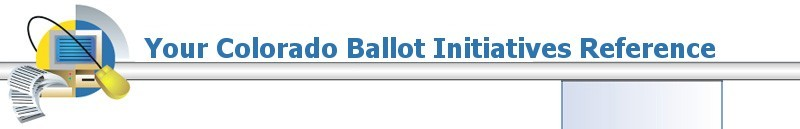
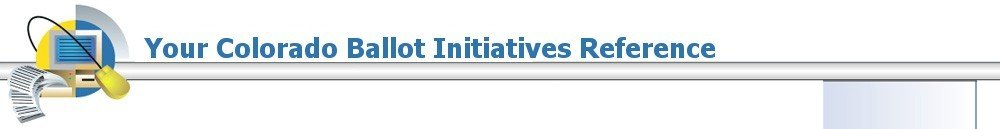
updated 2018 items

Changed region(s): [[0.0, 0.031, 0.9062, 0.9612], [0.6875, 0.6202, 0.9062, 1.0], [0.9062, 0.6202, 1.0, 0.6512]]

diff --git a/index.htm b/index.htm
@@ -13,15 +13,16 @@
 <!-- InstanceEndEditable -->
 </head>
 <body>
-<table width="800" align="center" cellspacing='0' cellpadding='0' class='pageMainTable'>
+<table width="1000px" align="center" cellspacing='0' cellpadding='0' class='pageMainTable'>
   <tr>
     <td colspan="5"><a href="index.htm"><img src="images/header.jpg" alt="The 2012 Colorado Ballot Amendments" border="0" /></a></td>
   </tr>
   <tr>
     <td width='23px'>&nbsp;</td>
-    <td width="175px" class="tdLeftParentCol" align="center" valign="top"><table width="100%" border="0" cellspacing="0" cellpadding="0">
+    <td width="175px" class="tdLeftParentCol" align="center" valign="top">
+	  <table width="100%" border="0" cellspacing="0" cellpadding="0">
         <tr>
-          <td align="left" valign="top" class="tdLeftCol"><img src="images/sidebar01_top.gif" width="175" height="23"/><!-- InstanceBeginEditable name="leftColumn" -->
+          <td align="left" valign="top" class="tdLeftCol"><img src="images/sidebar01_top.gif" width="100%" height="23"/><!-- InstanceBeginEditable name="leftColumn" -->
             <h1 class="headLeftCol">Amendments</h1>
             <p class="textLeftCol"><a href="https://ballotpedia.org/Colorado_Amendment_V,_Reduced_Age_Qualification_for_General_Assembly_Members_Amendment_(2018)">Amendment V</a></p>
             <p class="textLeftCol"><a href="https://ballotpedia.org/Colorado_Amendment_W,_Judge_Retention_Ballot_Language_Amendment_(2018)">Amendment W</a></p>
@@ -44,7 +45,7 @@
 <script>!function(d,s,id){var js,fjs=d.getElementsByTagName(s)[0],p=/^http:/.test(d.location)?'http':'https';if(!d.getElementById(id)){js=d.createElement(s);js.id=id;js.src=p+'://platform.twitter.com/widgets.js';fjs.parentNode.insertBefore(js,fjs);}}(document, 'script', 'twitter-wjs');</script>
 </p>
     <iframe frameborder='0' scrolling='no' marginheight='0' marginwidth='0' height='60' width='120' src='http://widget.quantcast.com/coloradoballot.net/6'></iframe></td>
-    <td width="323px" align="left" valign="top" class="tdCenterCol"><!-- InstanceBeginEditable name="main column" -->
+    <td width="617px" align="left" valign="top" class="tdCenterCol"><!-- InstanceBeginEditable name="main column" -->
       <h1>An Independent Evaluation</h1>
       <p class="textMain">I am a small business owner (software company) and I have tried to carefully and   dispassionately evaluate these initiatives. I am not part of any   group proposing or opposing any initiatives.</p>
       <h1>Letters, Numbers, &amp; Propositions</h1>
@@ -107,7 +108,7 @@
       <h1>Proposition 112</h1>
       <p class="textMain">It seems to be a rule that ever election we have one initiative that provides major benefit to the Oil &amp; Gas companies (Amendment 74 this year) and one that they fight with everything they have (<a href="2018/Colorado Proposition 112.html">prop 112 this year</a>).</p>
       <p class="textMain">This significantly increases the setback of drilling from homes, schools, businesses, etc. And hey, I'm all in favor of their not being able to drill next door to me.</p>
-      <p class="textMain">But the new setbacks will make it close to impossible to drill anywhere with a moderate level of building density. Which some of us think would be great.</p>
+      <p class="textMain">But the new setbacks will make it close to impossible to drill anywhere with a moderate level of building density.</p>
       <p class="textMain">If you want to pretty much stop drilling exceot for very sparse rural areas, vote yes.</p>
       <p class="textMain">If you want drilling to continue in areas with a fair amount of housing, vote no. </p>
       <div id="fb-root"></div>
@@ -150,7 +151,7 @@
       <p class="textRightCol"><a href="https://www.thedenverchannel.com/">KMGH (ABC) </a></p>
       <p class="textRightCol"><a href="https://www.9news.com">KUSA (NBC) </a></p>
       </td>
-    <td width='77px'>&nbsp;</td>
+    <td width='23px'>&nbsp;</td>
   </tr>
 </table>
 <!-- Start Quantcast tag -->

diff --git a/2012/index.htm b/2012/index.htm
@@ -13,15 +13,16 @@
 <!-- InstanceEndEditable -->
 </head>
 <body>
-<table width="800" align="center" cellspacing='0' cellpadding='0' class='pageMainTable'>
+<table width="1000px" align="center" cellspacing='0' cellpadding='0' class='pageMainTable'>
   <tr>
     <td colspan="5"><a href="../index.htm"><img src="../images/header.jpg" alt="The 2012 Colorado Ballot Amendments" border="0" /></a></td>
   </tr>
   <tr>
     <td width='23px'>&nbsp;</td>
-    <td width="175px" class="tdLeftParentCol" align="center" valign="top"><table width="100%" border="0" cellspacing="0" cellpadding="0">
+    <td width="175px" class="tdLeftParentCol" align="center" valign="top">
+		<table width="100%" border="0" cellspacing="0" cellpadding="0">
         <tr>
-          <td align="left" valign="top" class="tdLeftCol"><img src="../images/sidebar01_top.gif" width="175" height="23"/><!-- InstanceBeginEditable name="leftColumn" -->
+          <td align="left" valign="top" class="tdLeftCol"><img src="../images/sidebar01_top.gif" width="100%" height="23"/><!-- InstanceBeginEditable name="leftColumn" -->
             <h1 class="headLeftCol">Amendments</h1>
             <p class="textLeftCol"><a href="http://www.leg.state.co.us/LCS/Initiative Referendum/1112initrefr.nsf/c63bddd6b9678de787257799006bd391/8b49cb9a3a922b19872579fe00634a4d/$FILE/Amendment S merged file.pdf">Amendment S</a></p>
             <p class="textLeftCol"><a href="http://www.regulatemarijuana.org/">Amendment 64</a></p>
@@ -38,7 +39,7 @@
 <script>!function(d,s,id){var js,fjs=d.getElementsByTagName(s)[0],p=/^http:/.test(d.location)?'http':'https';if(!d.getElementById(id)){js=d.createElement(s);js.id=id;js.src=p+'://platform.twitter.com/widgets.js';fjs.parentNode.insertBefore(js,fjs);}}(document, 'script', 'twitter-wjs');</script>
 </p>
     <iframe frameborder='0' scrolling='no' marginheight='0' marginwidth='0' height='60' width='120' src='http://widget.quantcast.com/coloradoballot.net/6'></iframe></td>
-    <td width="323px" align="left" valign="top" class="tdCenterCol"><!-- InstanceBeginEditable name="main column" -->
+    <td width="617px" align="left" valign="top" class="tdCenterCol"><!-- InstanceBeginEditable name="main column" -->
       <h1>An Independent Evaluation</h1>
       <p class="textMain">I am a small business owner (software company) and I have tried to carefully and   dispassionately evaluate this proposition. I am not part of any   group proposing or opposing any amendments.</p>
       <h1>Amendment 64 - Legalize Marijuana</h1>
@@ -82,7 +83,7 @@
       <p class="textRightCol"><a href="https://www.thedenverchannel.com/">KMGH (ABC) </a></p>
       <p class="textRightCol"><a href="https://www.9news.com">KUSA (NBC) </a></p>
       </td>
-    <td width='77px'>&nbsp;</td>
+    <td width='23px'>&nbsp;</td>
   </tr>
 </table>
 <!-- Start Quantcast tag -->

diff --git a/2013/index.htm b/2013/index.htm
@@ -13,15 +13,16 @@
 <!-- InstanceEndEditable -->
 </head>
 <body>
-<table width="800" align="center" cellspacing='0' cellpadding='0' class='pageMainTable'>
+<table width="1000px" align="center" cellspacing='0' cellpadding='0' class='pageMainTable'>
   <tr>
     <td colspan="5"><a href="../index.htm"><img src="../images/header.jpg" alt="The 2012 Colorado Ballot Amendments" border="0" /></a></td>
   </tr>
   <tr>
     <td width='23px'>&nbsp;</td>
-    <td width="175px" class="tdLeftParentCol" align="center" valign="top"><table width="100%" border="0" cellspacing="0" cellpadding="0">
+    <td width="175px" class="tdLeftParentCol" align="center" valign="top">
+		<table width="100%" border="0" cellspacing="0" cellpadding="0">
         <tr>
-          <td align="left" valign="top" class="tdLeftCol"><img src="../images/sidebar01_top.gif" width="175" height="23"/><!-- InstanceBeginEditable name="leftColumn" -->
+          <td align="left" valign="top" class="tdLeftCol"><img src="../images/sidebar01_top.gif" width="100%" height="23"/><!-- InstanceBeginEditable name="leftColumn" -->
             <h1 class="headLeftCol">Amendments</h1>
             <p class="textLeftCol"><a href="../Colorado-Amendment-66.htm">Amendment 66</a></p>
             <p class="textLeftCol"><a href="http://www.colorado.gov/cs/Satellite?c=Document_C&amp;childpagename=CGA-LegislativeCouncil/Document_C/CLCAddLink&amp;cid=1251646230387&amp;pagename=CLCWrapper">Proposition AA</a></p>
@@ -37,7 +38,7 @@
 <script>!function(d,s,id){var js,fjs=d.getElementsByTagName(s)[0],p=/^http:/.test(d.location)?'http':'https';if(!d.getElementById(id)){js=d.createElement(s);js.id=id;js.src=p+'://platform.twitter.com/widgets.js';fjs.parentNode.insertBefore(js,fjs);}}(document, 'script', 'twitter-wjs');</script>
 </p>
     <iframe frameborder='0' scrolling='no' marginheight='0' marginwidth='0' height='60' width='120' src='http://widget.quantcast.com/coloradoballot.net/6'></iframe></td>
-    <td width="323px" align="left" valign="top" class="tdCenterCol"><!-- InstanceBeginEditable name="main column" -->
+    <td width="617px" align="left" valign="top" class="tdCenterCol"><!-- InstanceBeginEditable name="main column" -->
       <h1>An Independent Evaluation</h1>
       <p class="textMain">I am a small business owner (software company) and I have tried to carefully and   dispassionately evaluate this proposition. I am not part of any   group proposing or opposing any amendments.</p>
       <h1>Amendment 66 - Increase K-12 Funding</h1>
@@ -101,7 +102,7 @@
       <p class="textRightCol"><a href="https://www.thedenverchannel.com/">KMGH (ABC) </a></p>
       <p class="textRightCol"><a href="https://www.9news.com">KUSA (NBC) </a></p>
       </td>
-    <td width='77px'>&nbsp;</td>
+    <td width='23px'>&nbsp;</td>
   </tr>
 </table>
 <!-- Start Quantcast tag -->

diff --git a/2010/index.htm b/2010/index.htm
@@ -13,15 +13,16 @@
 <!-- InstanceEndEditable -->
 </head>
 <body>
-<table width="800" align="center" cellspacing='0' cellpadding='0' class='pageMainTable'>
+<table width="1000px" align="center" cellspacing='0' cellpadding='0' class='pageMainTable'>
   <tr>
     <td colspan="5"><a href="../index.htm"><img src="../images/header.jpg" alt="The 2012 Colorado Ballot Amendments" border="0" /></a></td>
   </tr>
   <tr>
     <td width='23px'>&nbsp;</td>
-    <td width="175px" class="tdLeftParentCol" align="center" valign="top"><table width="100%" border="0" cellspacing="0" cellpadding="0">
+    <td width="175px" class="tdLeftParentCol" align="center" valign="top">
+		<table width="100%" border="0" cellspacing="0" cellpadding="0">
         <tr>
-          <td align="left" valign="top" class="tdLeftCol"><img src="../images/sidebar01_top.gif" width="175" height="23"/><!-- InstanceBeginEditable name="leftColumn" -->
+          <td align="left" valign="top" class="tdLeftCol"><img src="../images/sidebar01_top.gif" width="100%" height="23"/><!-- InstanceBeginEditable name="leftColumn" -->
             <h1 class="headLeftCol">Amendments</h1>
             <p class="textLeftCol"><a href="colorado-amendment-60-property-taxes.htm">60: Property Taxes</a><br />
               <a href="colorado-amendment-61-limits-state-local-borrowing.htm">61: Limit Borrowing</a><br />
@@ -50,7 +51,7 @@
 <script>!function(d,s,id){var js,fjs=d.getElementsByTagName(s)[0],p=/^http:/.test(d.location)?'http':'https';if(!d.getElementById(id)){js=d.createElement(s);js.id=id;js.src=p+'://platform.twitter.com/widgets.js';fjs.parentNode.insertBefore(js,fjs);}}(document, 'script', 'twitter-wjs');</script>
 </p>
     <iframe frameborder='0' scrolling='no' marginheight='0' marginwidth='0' height='60' width='120' src='http://widget.quantcast.com/coloradoballot.net/6'></iframe></td>
-    <td width="323px" align="left" valign="top" class="tdCenterCol"><!-- InstanceBeginEditable name="main column" -->
+    <td width="617px" align="left" valign="top" class="tdCenterCol"><!-- InstanceBeginEditable name="main column" -->
       <h1>An Independent Evaluation</h1>
       <p class="textMain">I am a small business owner (software company) and I have tried to carefully and   dispassionately evaluate all of the colorado amendments. I am not part of any   group proposing or opposing these ballot initiatives. </p>
       <p class="textMain">Each amendment was reviewed with the following priorities:</p>
@@ -101,7 +102,7 @@
       <p class="textRightCol"><a href="https://www.thedenverchannel.com/">KMGH (ABC) </a></p>
       <p class="textRightCol"><a href="https://www.9news.com">KUSA (NBC) </a></p>
       </td>
-    <td width='77px'>&nbsp;</td>
+    <td width='23px'>&nbsp;</td>
   </tr>
 </table>
 <!-- Start Quantcast tag -->

diff --git a/2008/index.htm b/2008/index.htm
@@ -13,15 +13,16 @@
 <!-- InstanceEndEditable -->
 </head>
 <body>
-<table width="800" align="center" cellspacing='0' cellpadding='0' class='pageMainTable'>
+<table width="1000px" align="center" cellspacing='0' cellpadding='0' class='pageMainTable'>
   <tr>
     <td colspan="5"><a href="../index.htm"><img src="../images/header.jpg" alt="The 2012 Colorado Ballot Amendments" border="0" /></a></td>
   </tr>
   <tr>
     <td width='23px'>&nbsp;</td>
-    <td width="175px" class="tdLeftParentCol" align="center" valign="top"><table width="100%" border="0" cellspacing="0" cellpadding="0">
+    <td width="175px" class="tdLeftParentCol" align="center" valign="top">
+		<table width="100%" border="0" cellspacing="0" cellpadding="0">
         <tr>
-          <td align="left" valign="top" class="tdLeftCol"><img src="../images/sidebar01_top.gif" width="175" height="23"/><!-- InstanceBeginEditable name="leftColumn" -->
+          <td align="left" valign="top" class="tdLeftCol"><img src="../images/sidebar01_top.gif" width="100%" height="23"/><!-- InstanceBeginEditable name="leftColumn" -->
             <h1 class="headLeftCol">Amendments </h1>
             <p class="textLeftCol"> <a href="EliminateAffirmativeAction.htm">46: Elim. affirmative action</a><br />
               <a href="RightToFreeload.htm">47: Right to freeload </a><br />
@@ -50,7 +51,7 @@
 <script>!function(d,s,id){var js,fjs=d.getElementsByTagName(s)[0],p=/^http:/.test(d.location)?'http':'https';if(!d.getElementById(id)){js=d.createElement(s);js.id=id;js.src=p+'://platform.twitter.com/widgets.js';fjs.parentNode.insertBefore(js,fjs);}}(document, 'script', 'twitter-wjs');</script>
 </p>
     <iframe frameborder='0' scrolling='no' marginheight='0' marginwidth='0' height='60' width='120' src='http://widget.quantcast.com/coloradoballot.net/6'></iframe></td>
-    <td width="323px" align="left" valign="top" class="tdCenterCol"><!-- InstanceBeginEditable name="main column" -->
+    <td width="617px" align="left" valign="top" class="tdCenterCol"><!-- InstanceBeginEditable name="main column" -->
       <h1>After the Election </h1>
       <p class="textMain">Wow, what an election and what an amazing result. Congrats to Barak Obama, Mark Udall, &amp; Betsy Markey. </p>
       <p class="textMain">It looks like 50 &amp; 54 are the only two initiatives to pass. 58 &amp; 59 failing are going to hurt Colorado. But we move on.</p>
@@ -113,7 +114,7 @@
       <p class="textRightCol"><a href="https://www.thedenverchannel.com/">KMGH (ABC) </a></p>
       <p class="textRightCol"><a href="https://www.9news.com">KUSA (NBC) </a></p>
       </td>
-    <td width='77px'>&nbsp;</td>
+    <td width='23px'>&nbsp;</td>
   </tr>
 </table>
 <!-- Start Quantcast tag -->

diff --git a/2011/index.htm b/2011/index.htm
@@ -13,15 +13,16 @@
 <!-- InstanceEndEditable -->
 </head>
 <body>
-<table width="800" align="center" cellspacing='0' cellpadding='0' class='pageMainTable'>
+<table width="1000px" align="center" cellspacing='0' cellpadding='0' class='pageMainTable'>
   <tr>
     <td colspan="5"><a href="../index.htm"><img src="../images/header.jpg" alt="The 2012 Colorado Ballot Amendments" border="0" /></a></td>
   </tr>
   <tr>
     <td width='23px'>&nbsp;</td>
-    <td width="175px" class="tdLeftParentCol" align="center" valign="top"><table width="100%" border="0" cellspacing="0" cellpadding="0">
+    <td width="175px" class="tdLeftParentCol" align="center" valign="top">
+		<table width="100%" border="0" cellspacing="0" cellpadding="0">
         <tr>
-          <td align="left" valign="top" class="tdLeftCol"><img src="../images/sidebar01_top.gif" width="175" height="23"/><!-- InstanceBeginEditable name="leftColumn" -->
+          <td align="left" valign="top" class="tdLeftCol"><img src="../images/sidebar01_top.gif" width="100%" height="23"/><!-- InstanceBeginEditable name="leftColumn" -->
             <h1 class="headLeftCol">Amendments</h1>
             <p class="textLeftCol"><a href="proposition-103-colorado.htm">Proposition 103</a></p>
 <h1 class="headLeftCol">Candidates</h1>
@@ -35,7 +36,7 @@
 <script>!function(d,s,id){var js,fjs=d.getElementsByTagName(s)[0],p=/^http:/.test(d.location)?'http':'https';if(!d.getElementById(id)){js=d.createElement(s);js.id=id;js.src=p+'://platform.twitter.com/widgets.js';fjs.parentNode.insertBefore(js,fjs);}}(document, 'script', 'twitter-wjs');</script>
 </p>
     <iframe frameborder='0' scrolling='no' marginheight='0' marginwidth='0' height='60' width='120' src='http://widget.quantcast.com/coloradoballot.net/6'></iframe></td>
-    <td width="323px" align="left" valign="top" class="tdCenterCol"><!-- InstanceBeginEditable name="main column" -->
+    <td width="617px" align="left" valign="top" class="tdCenterCol"><!-- InstanceBeginEditable name="main column" -->
       <h1>An Independent Evaluation</h1>
       <p class="textMain">I am a small business owner (software company) and I have tried to carefully and   dispassionately evaluate this proposition. I am not part of any   group proposing or opposing proposition 103. </p>
       <p class="textMain">Each amendment was reviewed with the following priorities:</p>
@@ -77,7 +78,7 @@
       <p class="textRightCol"><a href="https://www.thedenverchannel.com/">KMGH (ABC) </a></p>
       <p class="textRightCol"><a href="https://www.9news.com">KUSA (NBC) </a></p>
       </td>
-    <td width='77px'>&nbsp;</td>
+    <td width='23px'>&nbsp;</td>
   </tr>
 </table>
 <!-- Start Quantcast tag -->

diff --git a/2014/index.htm b/2014/index.htm
@@ -13,15 +13,16 @@
 <!-- InstanceEndEditable -->
 </head>
 <body>
-<table width="800" align="center" cellspacing='0' cellpadding='0' class='pageMainTable'>
+<table width="1000px" align="center" cellspacing='0' cellpadding='0' class='pageMainTable'>
   <tr>
     <td colspan="5"><a href="../index.htm"><img src="../images/header.jpg" alt="The 2012 Colorado Ballot Amendments" border="0" /></a></td>
   </tr>
   <tr>
     <td width='23px'>&nbsp;</td>
-    <td width="175px" class="tdLeftParentCol" align="center" valign="top"><table width="100%" border="0" cellspacing="0" cellpadding="0">
+    <td width="175px" class="tdLeftParentCol" align="center" valign="top">
+		<table width="100%" border="0" cellspacing="0" cellpadding="0">
         <tr>
-          <td align="left" valign="top" class="tdLeftCol"><img src="../images/sidebar01_top.gif" width="175" height="23"/><!-- InstanceBeginEditable name="leftColumn" -->
+          <td align="left" valign="top" class="tdLeftCol"><img src="../images/sidebar01_top.gif" width="100%" height="23"/><!-- InstanceBeginEditable name="leftColumn" -->
             <h1 class="headLeftCol">Amendments</h1>
             <p class="textLeftCol"><a href="Colorado Amendment 67.html">Amendment 67</a></p>
             <p class="textLeftCol"><a href="Colorado Amendment 68.html">Amendment 68</a></p>
@@ -36,7 +37,7 @@
 <script>!function(d,s,id){var js,fjs=d.getElementsByTagName(s)[0],p=/^http:/.test(d.location)?'http':'https';if(!d.getElementById(id)){js=d.createElement(s);js.id=id;js.src=p+'://platform.twitter.com/widgets.js';fjs.parentNode.insertBefore(js,fjs);}}(document, 'script', 'twitter-wjs');</script>
 </p>
     <iframe frameborder='0' scrolling='no' marginheight='0' marginwidth='0' height='60' width='120' src='http://widget.quantcast.com/coloradoballot.net/6'></iframe></td>
-    <td width="323px" align="left" valign="top" class="tdCenterCol"><!-- InstanceBeginEditable name="main column" -->
+    <td width="617px" align="left" valign="top" class="tdCenterCol"><!-- InstanceBeginEditable name="main column" -->
       <h1>An Independent Evaluation</h1>
       <p class="textMain">I am a small business owner (software company) and I have tried to carefully and   dispassionately evaluate these initiatives. I am not part of any   group proposing or opposing any initiatives.</p>
       <h1>Amendment 67</h1>
@@ -99,7 +100,7 @@
       <p class="textRightCol"><a href="https://www.thedenverchannel.com/">KMGH (ABC) </a></p>
       <p class="textRightCol"><a href="https://www.9news.com">KUSA (NBC) </a></p>
       </td>
-    <td width='77px'>&nbsp;</td>
+    <td width='23px'>&nbsp;</td>
   </tr>
 </table>
 <!-- Start Quantcast tag -->

diff --git a/css/cb_styles.css b/css/cb_styles.css
@@ -158,7 +158,7 @@ strong {
 	padding-right: 20px;
 	padding-bottom: 0px;
 	padding-left: 20px;
-	width: 323px;
+	width: 617px;
 }
 
 .tdLargeCenterCol {
@@ -166,7 +166,7 @@ strong {
 	padding-right: 20px;
 	padding-bottom: 0px;
 	padding-left: 20px;
-	width: 498px;
+	width: 617px;
 }
 
 .tdFullCenterCol {
@@ -174,7 +174,7 @@ strong {
 	padding-right: 20px;
 	padding-bottom: 0px;
 	padding-left: 20px;
-	width: 660px;
+	width: 617px;
 }
 
 .tdRightCol {
